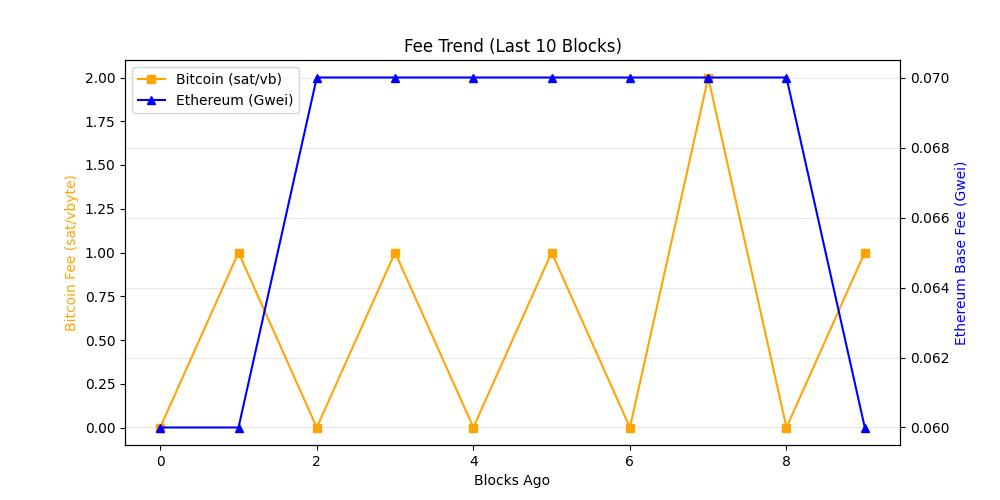
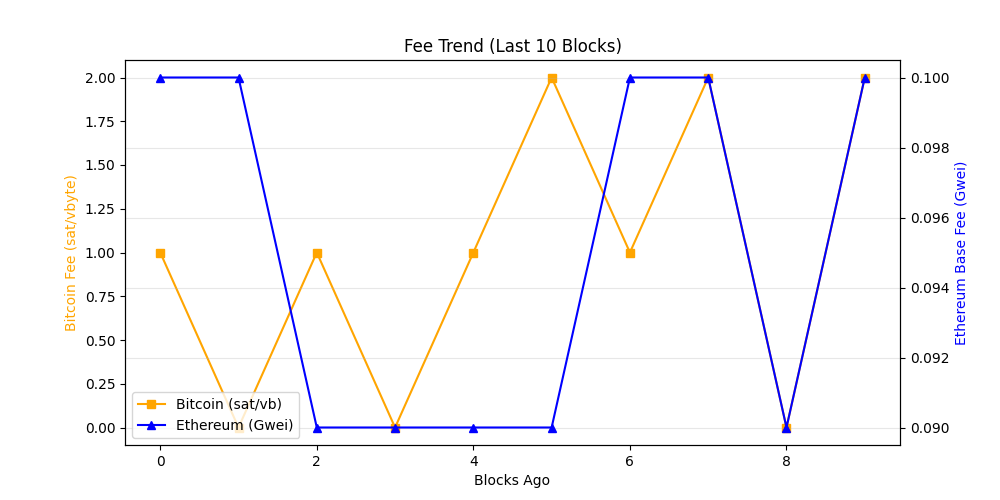
chore: update on-chain dashboard

diff --git a/README.md b/README.md
@@ -19,7 +19,7 @@ The README itself acts as the dashboard and is regenerated automatically on a 6 
 demonstrating a production-style, infrastructure-focused observability workflow rather
 than a traditional UI-driven approach.
 
-_Last updated: 2026-03-28 13:18 UTC_
+_Last updated: 2026-03-28 18:59 UTC_
 
 ## API Usage (GetBlock.io)
 - Calls used: **24**
@@ -27,8 +27,8 @@ _Last updated: 2026-03-28 13:18 UTC_
 ## Network Metrics
 | Chain | Block Height | TX Count | TPS (10 blk avg) | Block Util | Avg Fee |
 |------|-------------|----------|------------------|------------|---------|
-| Ethereum | 24756317 | 429 | 35.75 | 63.99% | 0.1 Gwei |
-| Bitcoin | 942641 | 4735 | 12.3 | 99.89% | N/A |
+| Ethereum | 24758018 | 283 | 23.58 | 43.14% | 0.1 Gwei |
+| Bitcoin | 942681 | 1663 | 3.26 | 45.61% | N/A |
 
 ## Visuals
 ### Transactions Trend
@@ -43,9 +43,7 @@ _Last updated: 2026-03-28 13:18 UTC_
 ## Whale Alerts (latest block)
 - Transaction hashes are truncated for readability.
 - Full hashes are available in `dashboards/metrics.json`
-- Bitcoin | 164.56 BTC | `14c685ac52de…`
-- Bitcoin | 164.56 BTC | `0d5b82b45d0b…`
-- Bitcoin | 4067.04 BTC | `598a5b2255ef…`
+No whale-sized transfers detected in latest blocks.
 
 ## Run locally
 
